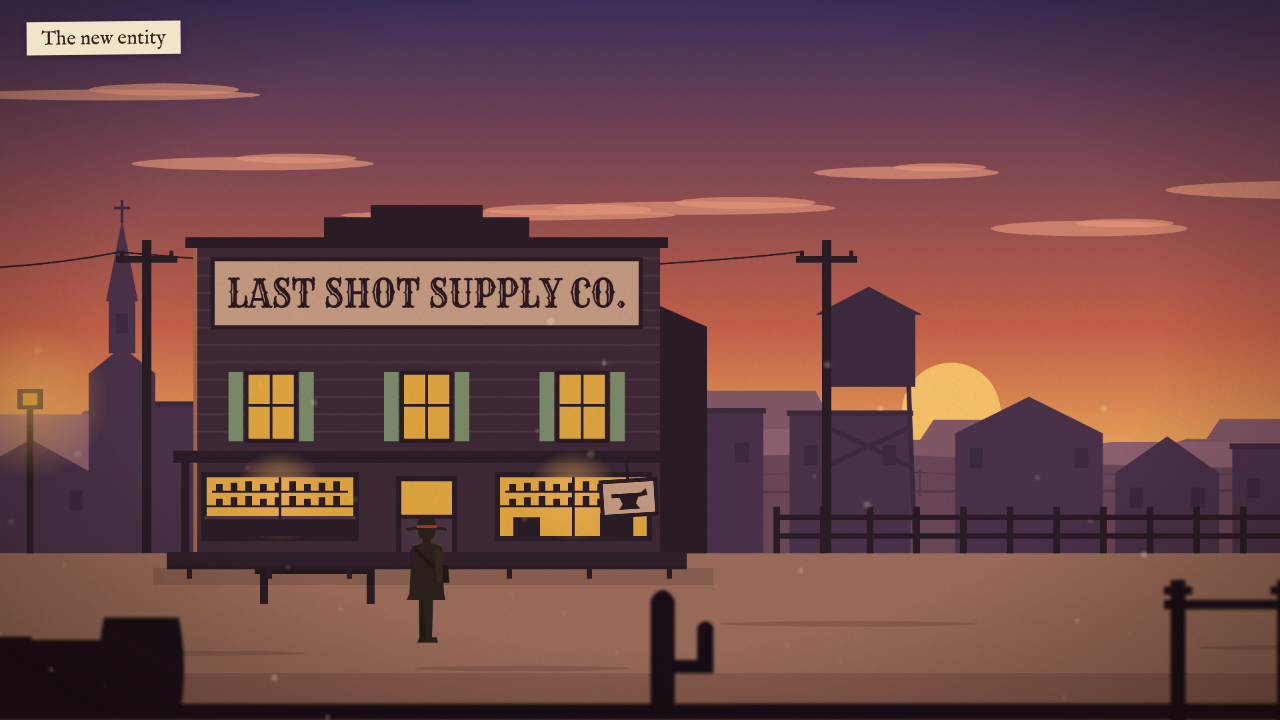
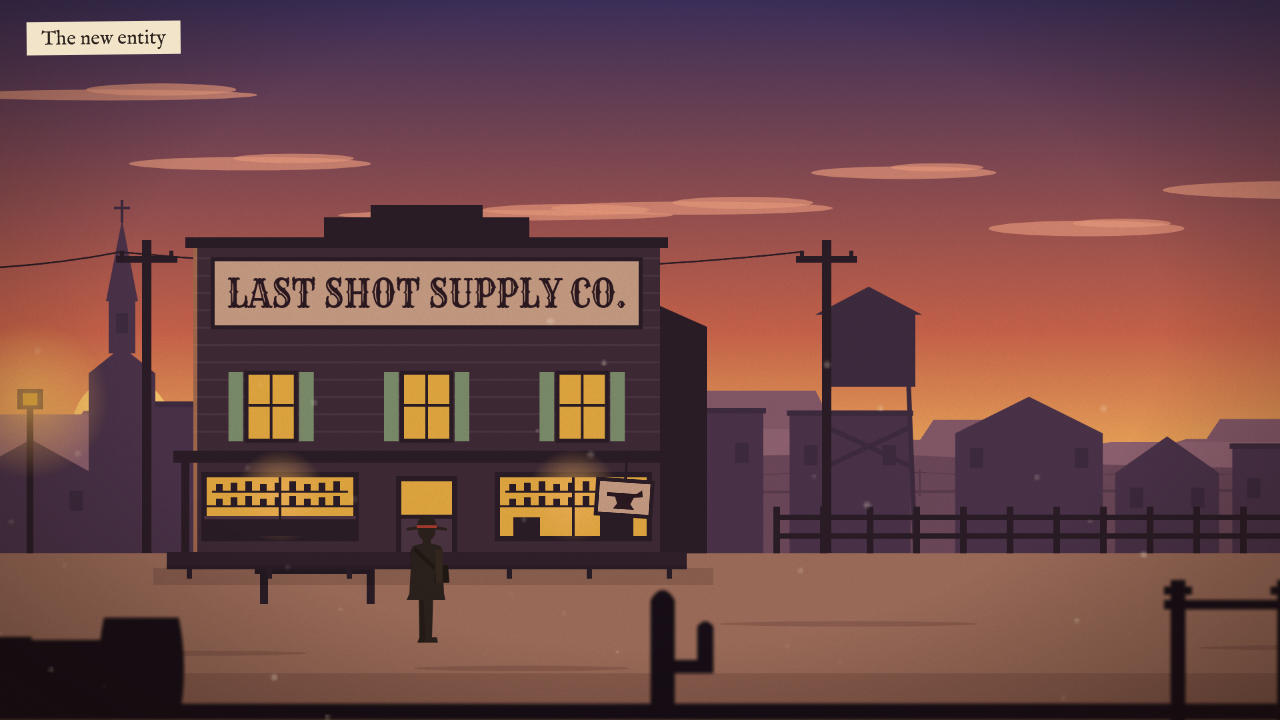
M3: fix review gaps - one click does one thing, animations stay in step across a mood change, reduced motion fades props, contrast, heat shimmer, option sizes, debug only with ?debug=1

Changed region(s): [[0.6875, 0.4889, 0.7812, 0.6111], [0.4375, 0.6417, 0.5312, 0.7333], [0.0625, 0.55, 0.0938, 0.5806]]

diff --git a/src/boot.js b/src/boot.js
@@ -4,7 +4,9 @@
 (function () {
   const B2B = globalThis.B2B;
   const debugOn = /[?&]debug=1\b/.test(location.search);
-  B2B.debug = { instant: false };
+  // The debug hooks exist only with ?debug=1 (SPEC 12.3).
+  if (debugOn) B2B.debug = { instant: false };
+  const instant = function () { return Boolean(B2B.debug && B2B.debug.instant); };
 
   let stage;
   let player;
@@ -13,7 +15,7 @@
   let overlay;
   let timers = [];
 
-  const later = function (fn, ms) { timers.push(setTimeout(fn, B2B.debug.instant ? 0 : ms)); };
+  const later = function (fn, ms) { timers.push(setTimeout(fn, instant() ? 0 : ms)); };
   const clear = function () {
     timers.forEach(clearTimeout);
     timers = [];
@@ -22,9 +24,13 @@
   function views() {
     const s1 = B2B.packs.scenarios().find(function (sc) { return sc.id === 's1'; });
     let state = B2B.engine.start(s1, B2B.packs.house());
-    const po = B2B.engine.view(state);
+    const po = { view: B2B.engine.view(state), state: state };
     while (state.nodeId !== 'c1') state = B2B.engine.advance(state);
-    return { title: s1.title, po: po, c1: B2B.engine.view(state) };
+    return { title: s1.title, po: po, c1: { view: B2B.engine.view(state), state: state } };
+  }
+
+  function show(step, state) {
+    note(step + '\nscenario ' + state.scenarioId + ', node ' + state.nodeId + '\nvars ' + JSON.stringify(state.vars));
   }
 
   function showPlace(name) {
@@ -58,13 +64,13 @@
     },
     telegram: function () {
       const v = views();
-      current = B2B.props.telegram(stage.props, v.po, B2B.packs.house(), function () {
+      current = B2B.props.telegram(stage.props, v.po.view, B2B.packs.house(), function () {
         clearProp();
         steps.walk();
       });
       place.classList.remove('on');
       stage.scrim.classList.add('on');
-      note('demo: telegram (s1 po)');
+      show('demo: telegram', v.po.state);
     },
     walk: function () {
       note('demo: walking to supply');
@@ -80,12 +86,12 @@
       const v = views();
       place.classList.remove('on');
       stage.scrim.classList.add('on');
-      current = B2B.props.choice(stage.props, v.c1, function (id) {
+      current = B2B.props.choice(stage.props, v.c1.view, function (id) {
         note('demo: chose ' + id + '. Starting again.');
         clearProp();
         later(start, 1600);
       });
-      note('demo: choice (s1 c1)');
+      show('demo: choice', v.c1.state);
     }
   };
 
@@ -94,18 +100,20 @@
     later(steps.telegram, 1600);
   }
 
-  // Continue: Space, Enter, Right arrow, or a click (SPEC 6.4). 1 to 4 choose.
+  // Continue: Space, Enter, Right arrow, or a click (SPEC 6.4). 1 to 4 choose. Props take
+  // their own clicks; a click on the stage only skips a walk.
   function onInput(e) {
     if (!current) return;
     if (current.trip) {
       current.trip.finish();
       return;
     }
+    if (e.type === 'pointerdown') return;
     if (e.type === 'keydown' && /^[1-4]$/.test(e.key) && current.key) {
       current.key(Number(e.key) - 1);
       return;
     }
-    const go = e.type === 'pointerdown' || e.key === ' ' || e.key === 'Enter' || e.key === 'ArrowRight';
+    const go = e.key === ' ' || e.key === 'Enter' || e.key === 'ArrowRight';
     if (go && current.press) {
       e.preventDefault();
       current.press();

diff --git a/css/base.css b/css/base.css
@@ -77,9 +77,9 @@ body > h1 {
 /* Silhouette tones by mood. Far is pale, near is dark. */
 .mood-day {
   --sun: #FFF6DC; --cloud: #FFFFFF; --cloud-o: .55;
-  --mesa: #BCB2A6; --mesa2: #B0A598;
-  --hill: #A69479; --hill2: #8C7A61;
-  --back: #7C6857; --back2: #66523F;
+  --mesa: #C4BDB4; --mesa2: #B6AEA6;
+  --hill: #AC9F88; --hill2: #8F8270;
+  --back: #8A7D72; --back2: #726558;
   --wood: #5B4434; --wood2: #3E2D23; --wood3: #6A5040;
   --win: #2A201B; --lamp: 0; --rim: 0;
   --walk: #47352A; --ground: #C9A27A; --ground2: #B88F68;
@@ -127,7 +127,7 @@ body > h1 {
 
 /* Things that are always gently alive (ART 7). Each world sets --phase so that two
    copies cross-fading during a mood change move in step. */
-.alive { animation-delay: var(--phase, 0s); transform-box: fill-box; }
+.alive { transform-box: fill-box; }
 .blades { animation: turn 9s linear infinite; transform-origin: center; }
 .smoke { animation: rise 7.5s ease-out infinite; transform-origin: center; opacity: 0; }
 .smoke.s2 { animation-delay: calc(var(--phase, 0s) + 1.5s); }
@@ -138,6 +138,9 @@ body > h1 {
 .hop { animation: hop 7s ease-in-out infinite; }
 .drift { animation: drift 160s linear infinite alternate; }
 .flicker { animation: flicker 3.3s ease-in-out infinite alternate; }
+.shimmer { animation: shimmer 3.8s ease-in-out infinite alternate; transform-origin: center; }
+/* After the shorthands above, which would otherwise reset it. */
+.alive { animation-delay: var(--phase, 0s); }
 
 @keyframes turn { to { transform: rotate(360deg); } }
 @keyframes rise {
@@ -152,6 +155,10 @@ body > h1 {
   94% { transform: translate(10px, 0); }
 }
 @keyframes drift { from { transform: translateX(0); } to { transform: translateX(-180px); } }
+@keyframes shimmer {
+  from { transform: translateX(-14px) scaleY(1); opacity: .25; }
+  to { transform: translateX(14px) scaleY(1.8); opacity: .5; }
+}
 @keyframes flicker { from { opacity: calc(var(--lamp) * .8); } to { opacity: var(--lamp); } }
 
 /* Atmosphere (layer 7): fixed. */
@@ -195,7 +202,6 @@ body > h1 {
   background: var(--paper);
   color: var(--ink);
   padding: 8px 22px 6px;
-  box-shadow: 0 3px 10px rgba(0, 0, 0, .25);
 }
 .hud .title { left: 40px; top: 32px; font: 30px/1.2 var(--text); transform: rotate(-.6deg); }
 .hud .week { right: 40px; top: 32px; font: 30px/1.2 var(--display); transform: rotate(.5deg); }
@@ -225,6 +231,8 @@ body > h1 {
 }
 
 @media (prefers-reduced-motion: reduce) {
-  .alive, .figure .body { animation: none; }
+  .alive, .figure .body, .stamp.landed { animation: none; }
+  .stamp.landed { opacity: 1; }
+  .prop { transition: opacity .2s; }
   .sky > div, .world, .scrim, .hud .place { transition: none; }
 }

diff --git a/tools/shots.js b/tools/shots.js
@@ -143,6 +143,28 @@ async function main() {
         await press('2', 'Digit2', '2');
         const punched = await evaluate("document.querySelectorAll('.ticket.punched').length");
         console.log('keys    2 chooses the second ticket: punched ' + punched);
+
+        // The same with the mouse. One click must do one thing.
+        const click = async (selector) => {
+          const box = await evaluate("(() => { const r = document.querySelector('" + selector + "').getBoundingClientRect(); return [r.x + r.width / 2, r.y + r.height / 2]; })()");
+          for (const type of ['mousePressed', 'mouseReleased']) {
+            await page('Input.dispatchMouseEvent', { type, x: box[0], y: box[1], button: 'left', clickCount: 1 });
+          }
+        };
+        await page('Page.navigate', { url });
+        await pause(2400);
+        await click('.telegram .message');
+        const afterOne = await evaluate("[document.querySelectorAll('.telegram .later').length, !!document.querySelector('.telegram.in'), !!document.querySelector('.figure.walking')]");
+        console.log('mouse   one click while typing: letters left ' + afterOne[0] + ', telegram still up ' + afterOne[1] + ', walking ' + afterOne[2]);
+        await click('.telegram .continue');
+        await pause(150);
+        const walkingNow = await evaluate("!!document.querySelector('.figure.walking')");
+        await click('#stage');
+        await pause(3600);
+        const panels = await evaluate("document.querySelectorAll('.panel').length");
+        await click('.ticket');
+        const punchedNow = await evaluate("document.querySelectorAll('.ticket.punched').length");
+        console.log('mouse   Continue walks: ' + walkingNow + '; a click skips; panels shown ' + panels + '; a click punches ' + punchedNow);
       }
       if (frames && width === 1920) {
         const result = await evaluate('B2B.debug.walkFrameTime()');

diff --git a/src/render/town.js b/src/render/town.js
@@ -52,7 +52,7 @@
     const w = 1920 + 0.02 * SPAN;
     let body = '';
     if (mood === 'dusk') {
-      body += '<circle class="sun" cx="1480" cy="618" r="74"/>';
+      body += '<circle class="sun" cx="236" cy="640" r="74"/>';
     } else {
       body += '<circle class="sun" cx="1520" cy="175" r="44"/>';
     }
@@ -69,7 +69,7 @@
   }
 
   // Layer 2: a flat, pale range of mesas. One tone, with a slightly darker far shelf.
-  function mesas() {
+  function mesas(mood) {
     const w = 1920 + 0.08 * SPAN;
     let far = 'M0 700 ';
     let near = 'M0 720 ';
@@ -90,7 +90,15 @@
     }
     far += 'L' + w + ' 700 L' + w + ' 760 L0 760 Z';
     near += 'L' + w + ' 720 L' + w + ' 760 L0 760 Z';
-    return svg(w, path('mesa2', far) + path('mesa', near));
+    let shimmer = '';
+    if (mood === 'day') {
+      // Heat shimmer low on the horizon (ART 4, day).
+      for (let i = 0; i < 9; i += 1) {
+        shimmer += '<ellipse class="cloud alive shimmer" cx="' + n(140 + i * 270 + vary(i, 13) * 90) + '" cy="' + n(728 + vary(i, 14) * 18) +
+          '" rx="' + n(90 + vary(i, 15) * 80) + '" ry="1.6" style="animation-delay: calc(var(--phase, 0s) - ' + (i * 0.7).toFixed(1) + 's)"/>';
+      }
+    }
+    return svg(w, path('mesa2', far) + path('mesa', near) + shimmer);
   }
 
   // Layer 3: rolling hills, a windmill, the railway line and telegraph poles running east.
@@ -315,7 +323,7 @@
     GROUND: GROUND,
     // One SVG string per layer, for a mood.
     draw: function (mood, house) {
-      return { l1: sky(mood), l2: mesas(), l3: hills(), l4: backRow(), l5: street(house), l6: foreground() };
+      return { l1: sky(mood), l2: mesas(mood), l3: hills(), l4: backRow(), l5: street(house), l6: foreground() };
     }
   };
 })();

diff --git a/src/render/props.js b/src/render/props.js
@@ -22,9 +22,11 @@
 
   const quick = function () { return (B2B.debug && B2B.debug.instant) || B2B.stage.reduce; };
 
-  // Brings a prop up from the bottom of the screen in about 300 ms.
+  // Brings a prop up from the bottom of the screen in about 300 ms. With reduced motion it
+  // fades in where it stands (SPEC 13).
+  const travel = function () { return B2B.stage.reduce ? 0 : 260; };
   function rise(prop, turn) {
-    prop.style.transform = 'translateY(260px) rotate(' + turn + 'deg)';
+    prop.style.transform = 'translateY(' + travel() + 'px) rotate(' + turn + 'deg)';
     requestAnimationFrame(function () {
       requestAnimationFrame(function () {
         prop.classList.add('in');
@@ -35,7 +37,7 @@
 
   function leave(prop) {
     prop.classList.remove('in');
-    prop.style.transform = 'translateY(260px)';
+    prop.style.transform = 'translateY(' + travel() + 'px)';
     setTimeout(function () { prop.remove(); }, quick() ? 0 : 320);
   }
 
@@ -73,6 +75,7 @@
 
     let shown = 0;
     let done = false;
+    let left = false;
     const complete = function () {
       if (done) return;
       done = true;
@@ -84,8 +87,12 @@
       el: prop,
       // Any input: finish the typing, or continue when it is finished.
       press: function () {
-        if (!done) complete();
-        else onContinue();
+        if (!done) {
+          complete();
+        } else if (!left) {
+          left = true;
+          onContinue();
+        }
       },
       finish: complete,
       leave: function () { leave(prop); }

diff --git a/css/props.css b/css/props.css
@@ -51,7 +51,7 @@
   background: repeating-linear-gradient(transparent 0 55px, var(--paper-edge) 55px 57px, transparent 57px 58px);
   word-spacing: 4px;
 }
-.telegram .message .stop { opacity: .55; }
+.telegram .message .stop { color: #6B5A4C; }
 .telegram .message .later { visibility: hidden; }
 .stamp {
   position: absolute;
@@ -69,7 +69,7 @@
 .stamp.landed { animation: land .26s cubic-bezier(.3, 1.4, .6, 1) forwards; }
 @keyframes land {
   from { opacity: 0; transform: scale(1.35) rotate(var(--turn, -8deg)); }
-  to { opacity: .86; transform: scale(1) rotate(var(--turn, -8deg)); }
+  to { opacity: 1; transform: scale(1) rotate(var(--turn, -8deg)); }
 }
 
 .continue {
@@ -136,8 +136,8 @@
   border-radius: 50%;
   font: 32px/1 var(--display);
 }
-.ticket .label { display: block; font: 36px/1.2 var(--text); }
-.ticket .note { display: block; margin-top: 4px; font: italic 26px/1.25 var(--text); color: #4A3B30; }
+.ticket .label { display: block; font: 34px/1.2 var(--text); }
+.ticket .note { display: block; margin-top: 4px; font: italic 24px/1.25 var(--text); color: #4A3B30; }
 /* A punched ticket: a visible hole and a tick, never colour alone. */
 .ticket.punched::after {
   content: '';

diff --git a/src/render/stage.js b/src/render/stage.js
@@ -76,7 +76,7 @@
       backs = backs.filter(function (b) { return gone.indexOf(b) < 0; });
       fronts = fronts.filter(function (f) { return gone.indexOf(f) < 0; });
     };
-    if (instant || reduce || B2B.debug.instant || !gone.length) {
+    if (instant || reduce || (B2B.debug && B2B.debug.instant) || !gone.length) {
       finish();
       return;
     }
